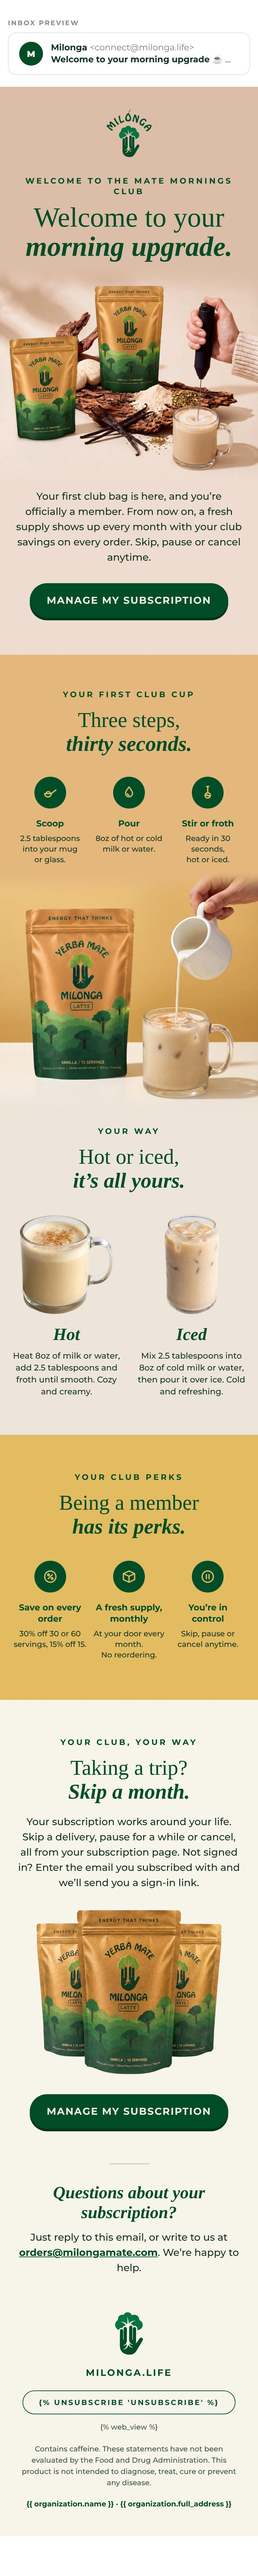
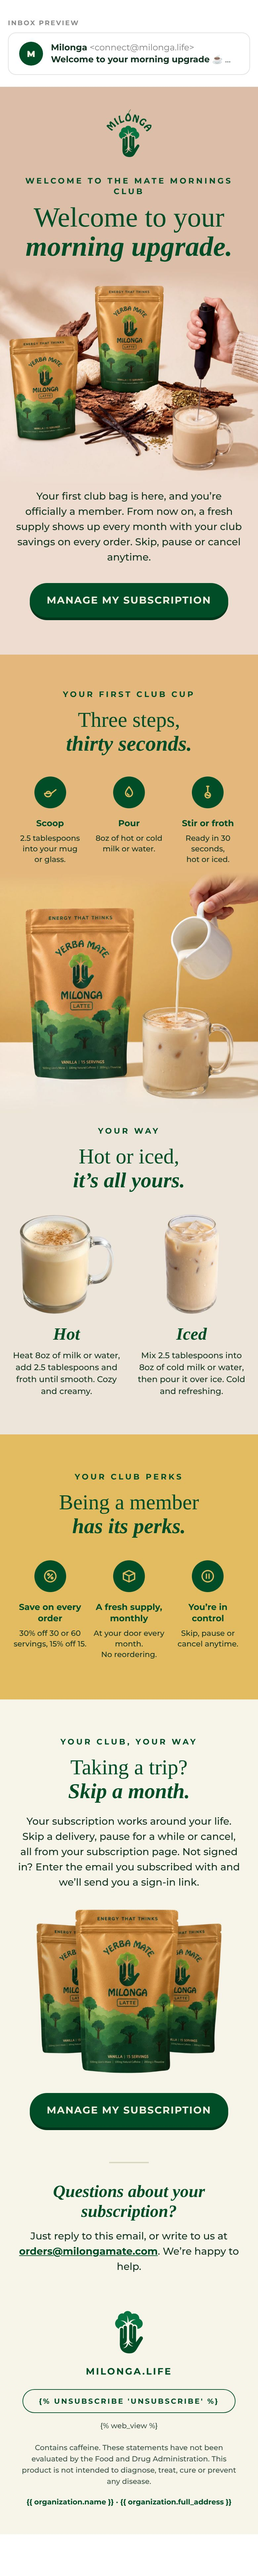
Subscribers E1: new three-pouch photo in 'Your club, your way'
Claude-Session: https://claude.ai/code/session_01NhEtXPnfeCJfN73SqBkUZ5

diff --git a/email-ds/refine/sub1-e1.html b/email-ds/refine/sub1-e1.html
@@ -148,7 +148,7 @@ body{margin:0;background:#FFFFFF;padding:28px 0 60px}
 <div class="h-sec" style="font-family:'Times New Roman',Times,Georgia,serif;font-size:40px;line-height:44px;font-weight:700;font-style:italic;color:#004D27;">Skip a month.</div>
 <div class="lead" style="padding-top:16px;font-size:16px;line-height:24px;font-weight:500;color:#12331F;">Your subscription works around your life. Skip a delivery, pause for a while or cancel, all from your subscription page. Not signed in? Enter the email you subscribed with and we&rsquo;ll send you <span style="white-space:nowrap;">a sign-in link.</span></div>
 </td></tr>
-<tr><td class="bg-cream" align="center" bgcolor="#F7F4EA" style="background-color:#F7F4EA;padding:30px 40px 0;font-size:0;line-height:0;"><img class="bags" src="../exports/klaviyo/sub1-e1/img/bags.jpg" width="380" height="337" alt="Three Mate Latte pouches" style="display:block;margin:0 auto;width:380px;height:337px;border:0;"></td></tr>
+<tr><td class="bg-cream" align="center" bgcolor="#F7F4EA" style="background-color:#F7F4EA;padding:30px 40px 0;font-size:0;line-height:0;"><img class="bags" src="../exports/klaviyo/sub1-e1/img/bags.jpg" width="380" height="336" alt="Three Mate Latte pouches" style="display:block;margin:0 auto;width:380px;height:336px;border:0;"></td></tr>
 <tr><td class="pad bg-cream" align="center" bgcolor="#F7F4EA" style="background-color:#F7F4EA;padding:30px 40px 0;font-family:'Montserrat','Helvetica Neue',Helvetica,Arial,sans-serif;">
 <!--[if mso]>
 <v:roundrect xmlns:v="urn:schemas-microsoft-com:vml" xmlns:w="urn:schemas-microsoft-com:office:word" href="https://milonga.life/apps/subscriptions" style="height:56px;v-text-anchor:middle;width:340px;" arcsize="50%" stroke="f" fillcolor="#004D27"><w:anchorlock/><center style="color:#F0EFDF;font-family:Arial,sans-serif;font-size:16px;font-weight:bold;letter-spacing:2px;">Manage my subscription</center></v:roundrect>
